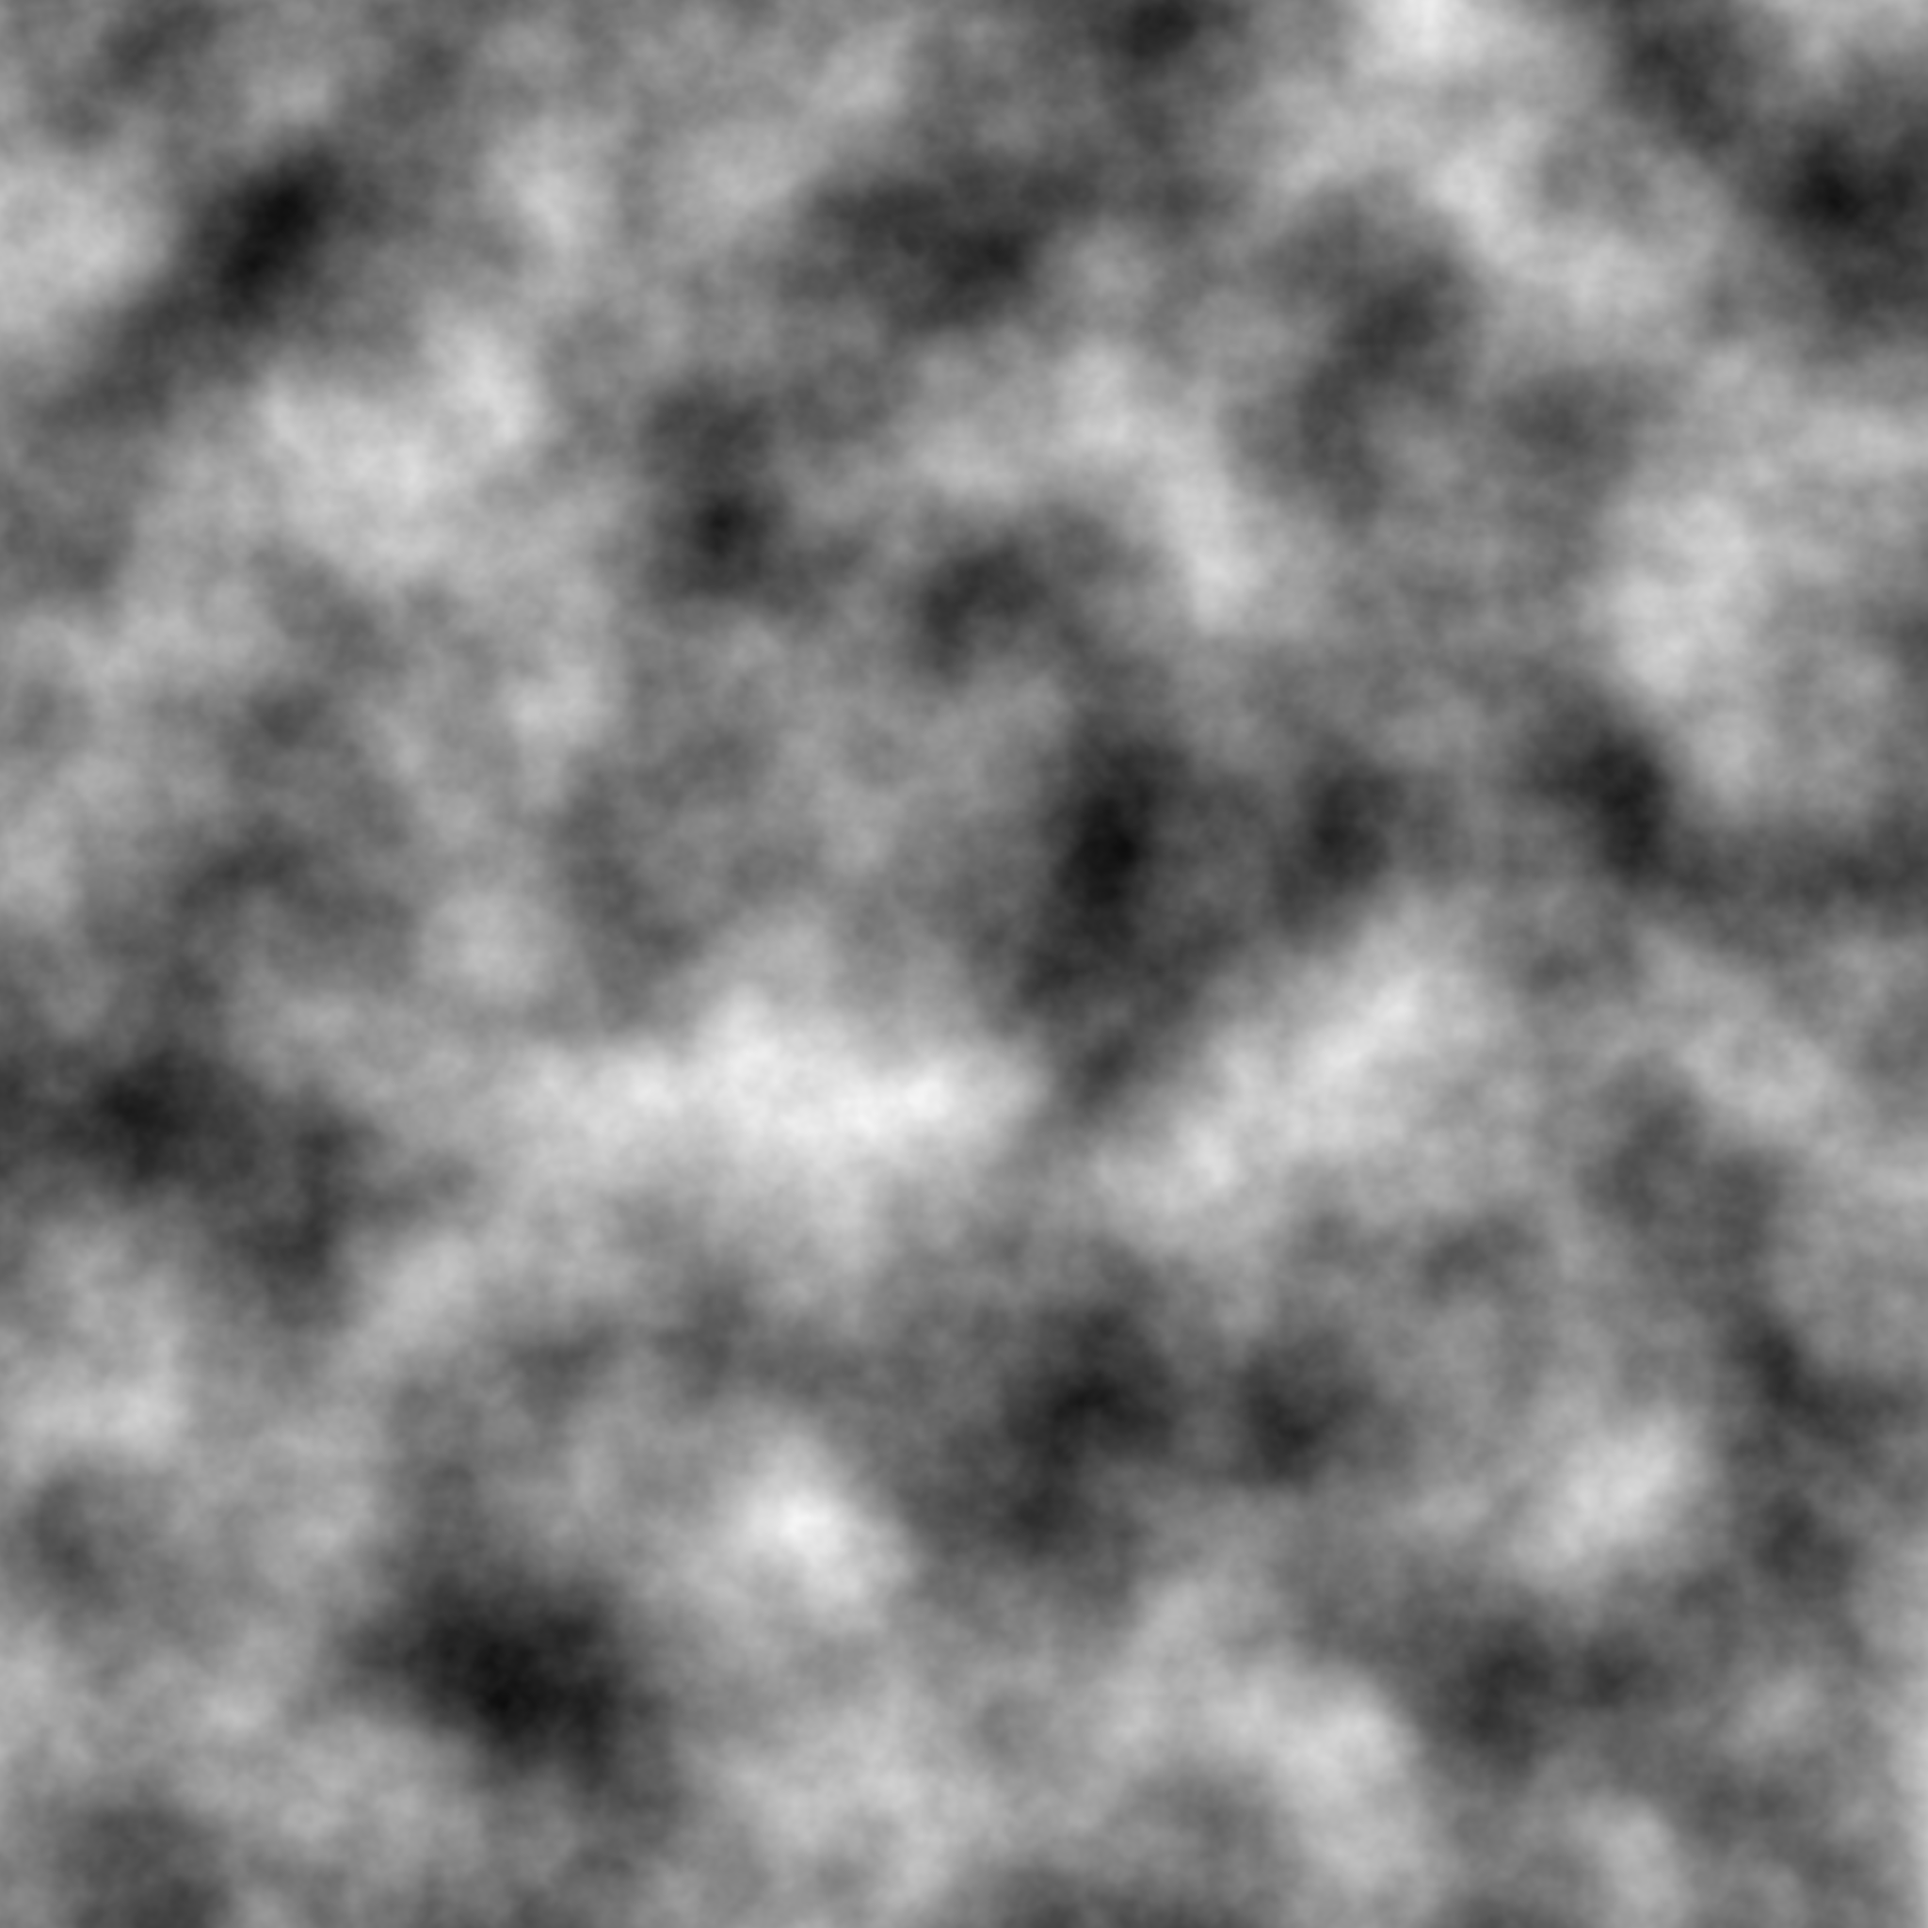
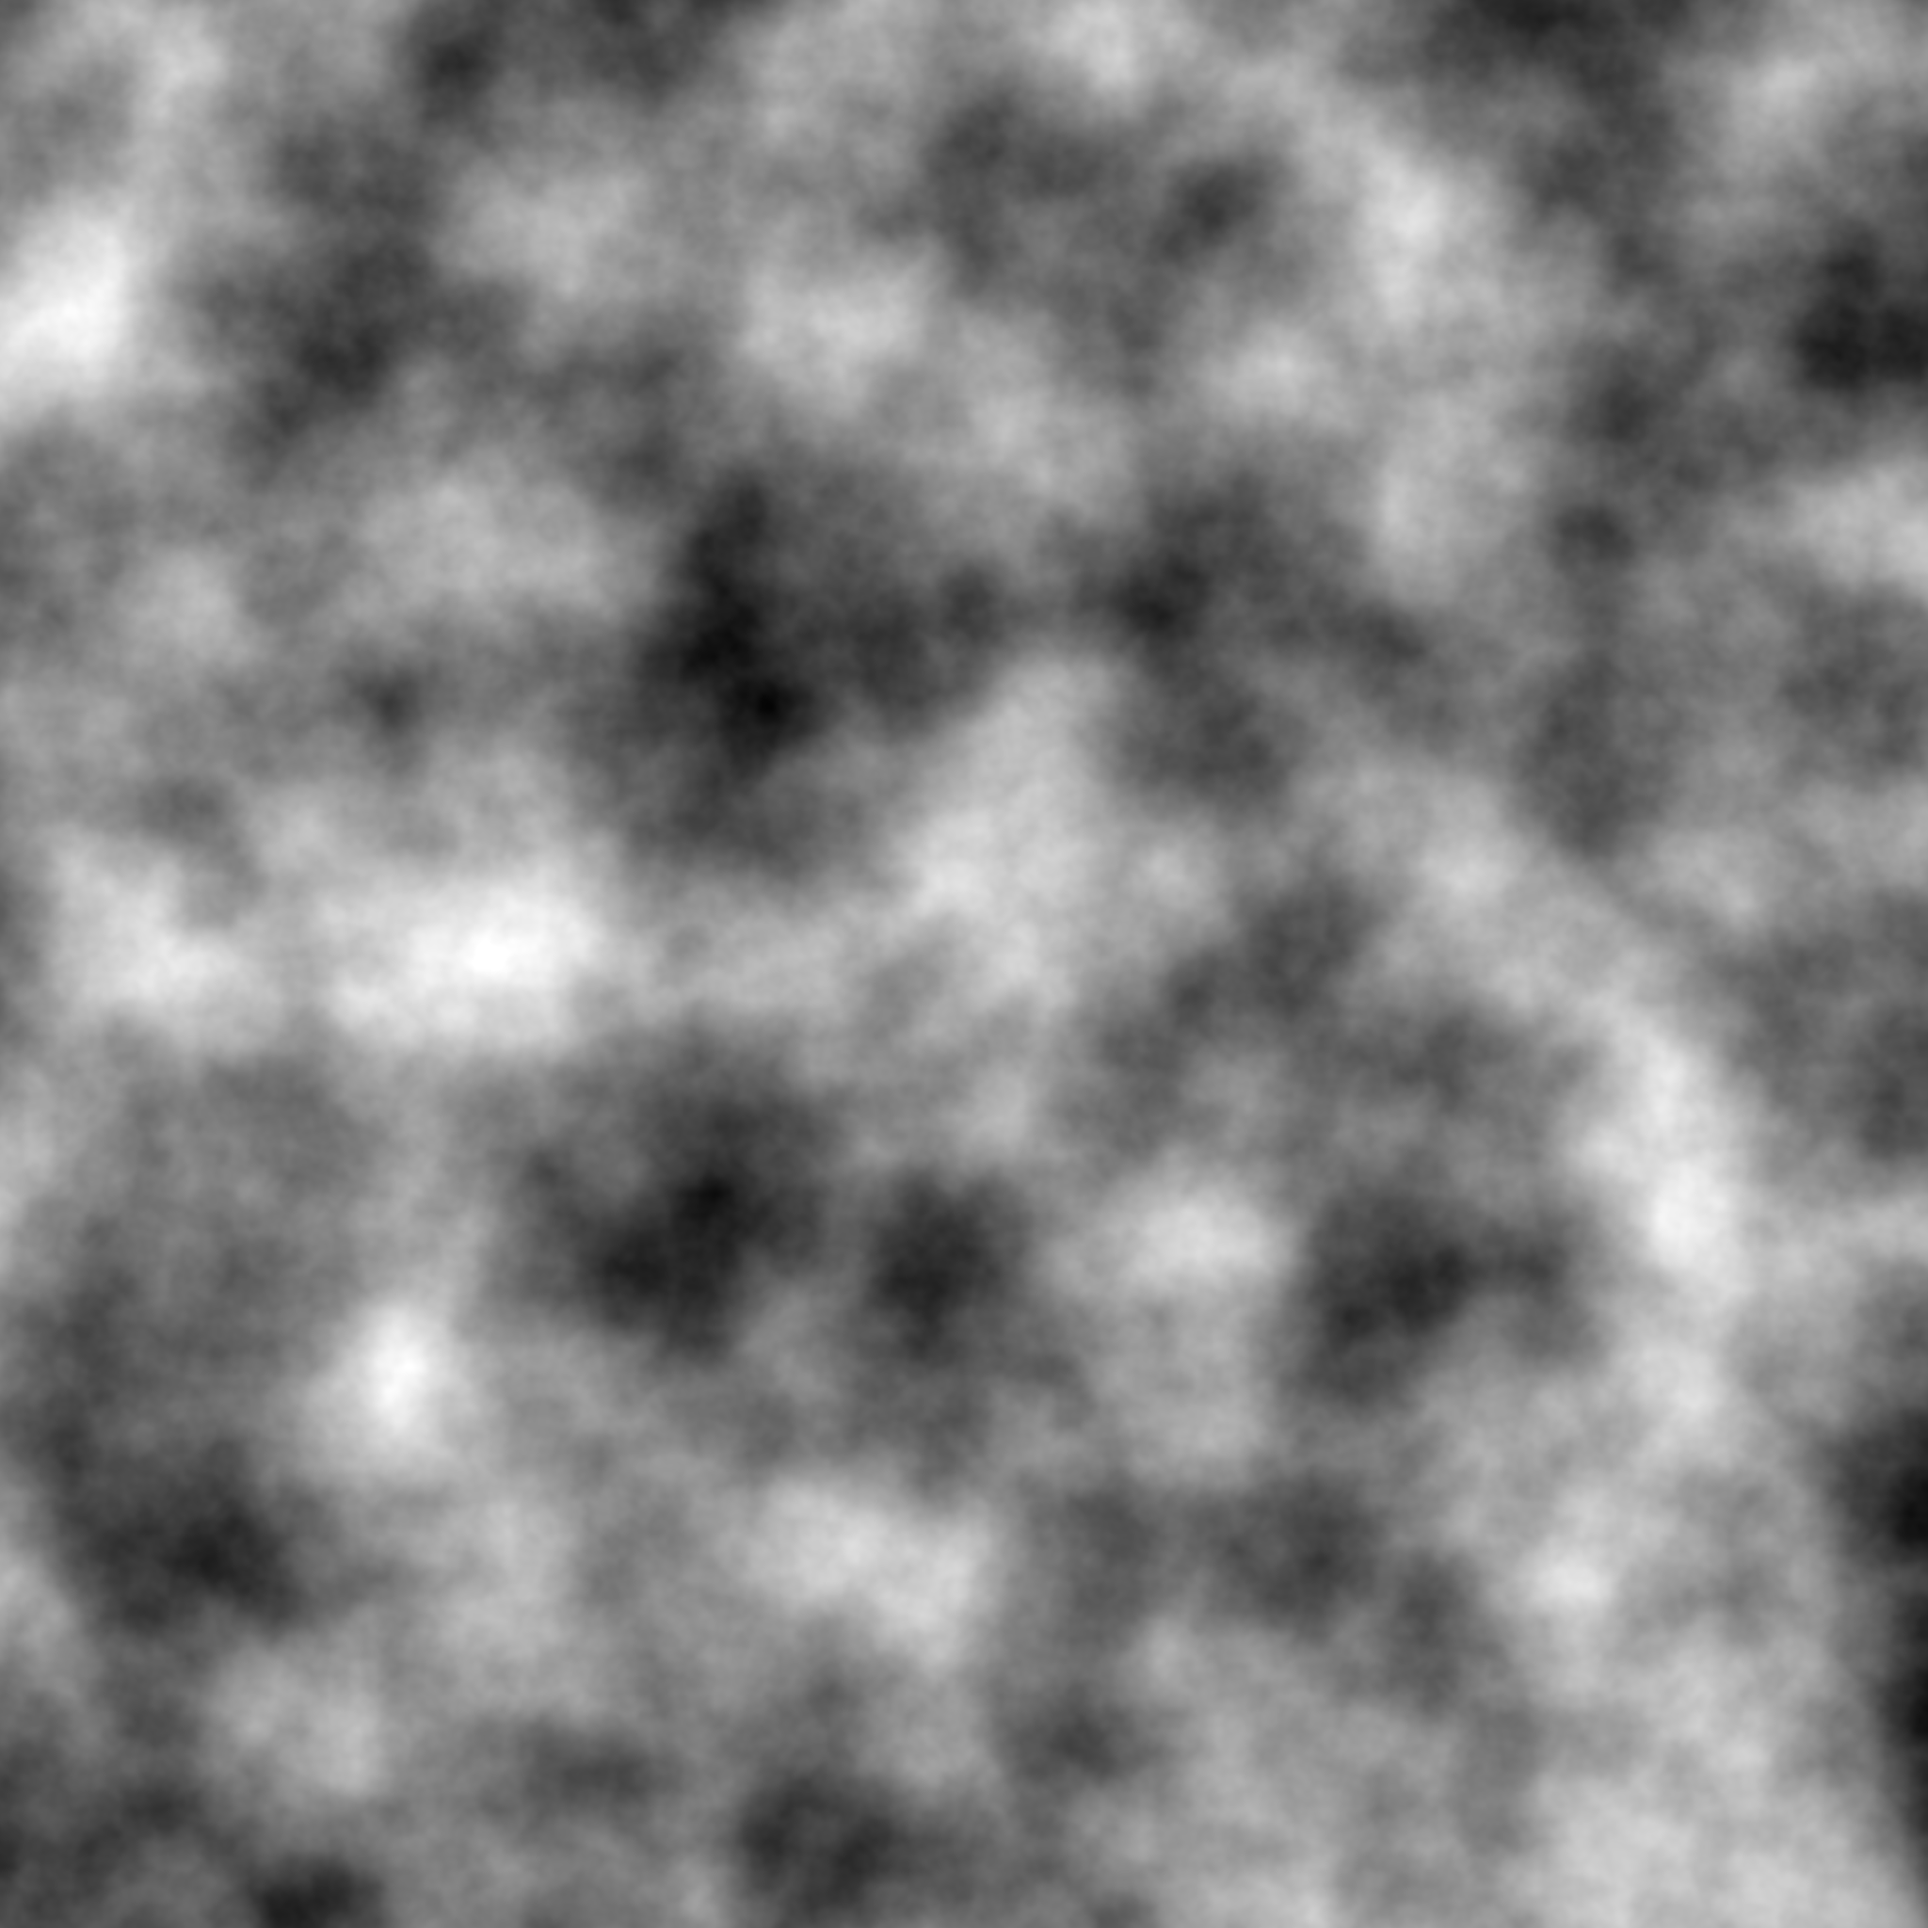
Corrected cells generation

diff --git a/src/main/java/lu/kbra/gamebox/client/es/game/game/world/World.java b/src/main/java/lu/kbra/gamebox/client/es/game/game/world/World.java
@@ -95,32 +95,47 @@ public class World implements Cleanupable {
 		this.fertilityGen = new NoiseGenerator(seed + SEED_OFFSET_FERTILITY, 32);
 		this.humidityGen = new NoiseGenerator(seed + SEED_OFFSET_HUMIDITY, 64);
 
-		GlobalUtils.pushWorker(
-				() -> NoiseMain.map(distributionGen, "distribution", -5 * 20, +5 * 20),
-				() -> NoiseMain.map(hostilityGen, "hostility", -5 * 20, +5 * 20),
-				() -> NoiseMain.map(fertilityGen, "fertility", -5 * 20, +5 * 20),
+		GlobalUtils.pushWorker(() -> NoiseMain.map(distributionGen, "distribution", -5 * 20, +5 * 20), () -> NoiseMain.map(hostilityGen, "hostility", -5 * 20, +5 * 20), () -> NoiseMain.map(fertilityGen, "fertility", -5 * 20, +5 * 20),
 				() -> NoiseMain.map(humidityGen, "humidity", -5 * 20, +5 * 20),
 
 				() -> NoiseMain.map((point) -> humidityGen.noise(point) > 0.2 && hostilityGen.noise(point) < 0.4, "plants_normal", -5 * 20, +5 * 20),
-				
+
 				() -> NoiseMain.map((point) -> humidityGen.noise(point) < 0.2, "humidity_less_0.2", -5 * 20, +5 * 20),
 				() -> NoiseMain.map((point) -> humidityGen.noise(point) < 0.4, "humidity_less_0.4", -5 * 20, +5 * 20),
 				() -> NoiseMain.map((point) -> humidityGen.noise(point) < 0.6, "humidity_less_0.6", -5 * 20, +5 * 20),
 				() -> NoiseMain.map((point) -> humidityGen.noise(point) < 0.8, "humidity_less_0.8", -5 * 20, +5 * 20),
 				
-				() -> NoiseMain.map((point) -> hostilityGen.noise(point) > 0.8, "hostility_greater_0.5", -5 * 20, +5 * 20),
+				() -> NoiseMain.map((point) -> humidityGen.noise(point) > 0.2, "humidity_greater_0.2", -5 * 20, +5 * 20),
+				() -> NoiseMain.map((point) -> humidityGen.noise(point) > 0.4, "humidity_greater_0.4", -5 * 20, +5 * 20),
+				() -> NoiseMain.map((point) -> humidityGen.noise(point) > 0.6, "humidity_greater_0.6", -5 * 20, +5 * 20),
+				() -> NoiseMain.map((point) -> humidityGen.noise(point) > 0.8, "humidity_greater_0.8", -5 * 20, +5 * 20),
+				
+				() -> NoiseMain.map((point) -> fertilityGen.noise(point) < 0.2, "fertility_less_0.2", -5 * 20, +5 * 20),
+				() -> NoiseMain.map((point) -> fertilityGen.noise(point) < 0.4, "fertility_less_0.4", -5 * 20, +5 * 20),
+				() -> NoiseMain.map((point) -> fertilityGen.noise(point) < 0.6, "fertility_less_0.6", -5 * 20, +5 * 20),
+				() -> NoiseMain.map((point) -> fertilityGen.noise(point) < 0.8, "fertility_less_0.8", -5 * 20, +5 * 20),
+
+				() -> NoiseMain.map((point) -> hostilityGen.noise(point) > 0.5, "hostility_greater_0.5", -5 * 20, +5 * 20),
 				() -> NoiseMain.map((point) -> hostilityGen.noise(point) > 0.8, "hostility_greater_0.8", -5 * 20, +5 * 20),
 				
+				() -> NoiseMain.map((point) -> hostilityGen.noise(point) < 0.4, "hostility_less_0.4", -5 * 20, +5 * 20),
+				() -> NoiseMain.map((point) -> hostilityGen.noise(point) < 0.2, "hostility_less_0.2", -5 * 20, +5 * 20),
+
 				() -> NoiseMain.map((point) -> humidityGen.noise(point) < 0.4 && hostilityGen.noise(point) > 0.5, "toxins_normal", -5 * 20, +5 * 20),
 				() -> NoiseMain.map((point) -> humidityGen.noise(point) < 0.4 && java.lang.Math.pow(hostilityGen.noise(point), 2) > 0.5, "toxins_squared", -5 * 20, +5 * 20),
-				() -> NoiseMain.map((point) -> humidityGen.noise(point) < 0.4 && hostilityGen.noise(point)*2 > 0.5, "toxins_doubled", -5 * 20, +5 * 20),
-				() -> NoiseMain.map((point) -> humidityGen.noise(point) < 0.4 && hostilityGen.noise(point)/2 > 0.5, "toxins_halved", -5 * 20, +5 * 20)
+				() -> NoiseMain.map((point) -> humidityGen.noise(point) < 0.4 && hostilityGen.noise(point) * 2 > 0.5, "toxins_doubled", -5 * 20, +5 * 20),
+				() -> NoiseMain.map((point) -> humidityGen.noise(point) < 0.4 && hostilityGen.noise(point) / 2 > 0.5, "toxins_halved", -5 * 20, +5 * 20),
+
+				() -> NoiseMain.map((point) -> fertilityGen.noise(point) > 0.8 && hostilityGen.noise(point) < 0.2 && humidityGen.noise(point) > 0.4, "cells_normal", -5 * 20, +5 * 20),
+				() -> NoiseMain.map((point) -> fertilityGen.noise(point) > 0.8 && hostilityGen.noise(point) < 0.4 && humidityGen.noise(point) > 0.4, "cells_soft_hostility", -5 * 20, +5 * 20),
+				() -> NoiseMain.map((point) -> fertilityGen.noise(point) > 0.6 && hostilityGen.noise(point) < 0.4 && humidityGen.noise(point) > 0.4, "cells_soft_hostility_soft_fertility", -5 * 20, +5 * 20)
 		);
 
 		CellMaterial playerMaterial = cache.loadOrGetMaterial("playerMaterial", CellShader.CellMaterial.class, CellType.PLAYER.name(),
 				cache.loadOrGetSingleTexture(CellShader.CellMaterial.PLAYER_TEXTURE_NAME, CellShader.CellMaterial.PLAYER_TEXTURE_PATH));
-		Mesh playerMesh = cache.newQuadMesh("playerMesh", playerMaterial, new Vector2f(1));
+		Mesh playerMesh = cache.newQuadMesh("playerMesh", playerMaterial, new Vector2f(2.5f * 2));
 		this.player = new CellEntity("player", cache, playerMesh, new CellDescriptor("player", CellType.PLAYER, "noname", null, null, null, 1));
+		scene.addEntity(player);
 
 		cellDescriptorPool = loadCellDescriptorPool();
 	}
@@ -161,8 +176,8 @@ public class World implements Cleanupable {
 		List<Entity> toxins = genToxins(center, halfSquareSize, numPoint / 3);
 		toxins.forEach(scene::addEntity);
 
-		List<Entity> cells = genCells(center, halfSquareSize, numPoint / 3);
-		// cells.forEach(scene::addEntity);
+		List<Entity> cells = genCells(center, halfSquareSize, numPoint / 10);
+		cells.forEach(scene::addEntity);
 
 		entities.addAll(plants);
 		entities.addAll(toxins);
@@ -194,14 +209,6 @@ public class World implements Cleanupable {
 			CellInstanceEmitter emit = new CellInstanceEmitter(desc.getId() + "-part-" + center, poss.size(), desc.loadOrGetMaterial(cache), new Transform3D());
 			cache.addMesh(emit.getParticleMesh());
 			cache.addInstanceEmitter(emit);
-
-			/*
-			 * try { Files.write(Paths.get("./resources/bakes/noise/sizes.txt"),
-			 * poss.parallelStream().map(t -> Math.clamp(0.6f, 1.2f, (float) ((1 -
-			 * hostilityGen.noise(t)*0.2f) + fertilityGen.noise(t) * 0.3f +
-			 * humidityGen.noise(t)))+"").collect(Collectors.joining("\n")).getBytes()); }
-			 * catch (IOException e1) { e1.printStackTrace(); }
-			 */
 
 			Matrix4f[] matrices = poss.stream().map(t -> new Matrix4f().setTranslation(t.x, t.y, 0).scale(Math.clamp(0.6f, 1.2f, (float) ((1 - hostilityGen.noise(t)) + fertilityGen.noise(t) * 0.3f + humidityGen.noise(t)))))
 					.collect(Collectors.toList()).toArray(new Matrix4f[poss.size()]);
@@ -256,7 +263,7 @@ public class World implements Cleanupable {
 		cache.addInstanceEmitter(emit);
 
 		Matrix4f[] matrices = plants.parallelStream().map(t -> new Matrix4f().setTranslation(t.x, t.y, 0)).collect(Collectors.toList()).toArray(new Matrix4f[plants.size()]);
-		Object[] sizes = plants.stream().map(p -> Math.clamp(0.6f, 1f, (float) humidityGen.noise(p) / 10 * 4 + 0.6f)).collect(Collectors.toList()).toArray();
+		Object[] sizes = plants.stream().map(p -> Math.clamp(0.6f, 2f, (float) humidityGen.noise(p) * 5)).collect(Collectors.toList()).toArray();
 
 		for (int i = 0; i < matrices.length; i++) {
 			matrices[i].translate(0, 0, 0.01f * i);
@@ -294,16 +301,18 @@ public class World implements Cleanupable {
 				rePoints.add(point);
 			}
 		}
+		GlobalLogger.info("Toxin growth ratio: " + ((double) rePoints.size() / points.size() * 100) + "%");
 		return rePoints;
 	}
 
 	public List<Vector2f> genCells(Vector2f center, List<Vector2f> points) {
 		List<Vector2f> rePoints = new ArrayList<Vector2f>();
 		for (Vector2f point : points) {
-			if (fertilityGen.noise(point, center) > 0.4 && hostilityGen.noise(point, center) > 0.2 && humidityGen.noise(point, center) > 0.3 && random.nextFloat() > 0.6f) {
+			if (fertilityGen.noise(point, center) > 0.6 && hostilityGen.noise(point, center) < 0.4 && humidityGen.noise(point, center) > 0.4 && random.nextFloat() > 0.2f) {
 				rePoints.add(point);
 			}
 		}
+		GlobalLogger.info("Cell growth ratio: " + ((double) rePoints.size() / points.size() * 100) + "%");
 		return rePoints;
 	}
 
@@ -317,8 +326,10 @@ public class World implements Cleanupable {
 		float maxY = +halfSquareSize;
 
 		for (int i = 0; i < numPoints; i++) {
-			// float randomX = minX + (float) distributionGen.noise(i * GEN_FACTOR + seed.x, i * GEN_FACTOR + seed.y) * (maxX - minX);
-			// float randomY = minY + (float) distributionGen.noise(i * GEN_FACTOR * 2 + seed.x, i * GEN_FACTOR / 3 + seed.y) * (maxY - minY);
+			// float randomX = minX + (float) distributionGen.noise(i * GEN_FACTOR + seed.x,
+			// i * GEN_FACTOR + seed.y) * (maxX - minX);
+			// float randomY = minY + (float) distributionGen.noise(i * GEN_FACTOR * 2 +
+			// seed.x, i * GEN_FACTOR / 3 + seed.y) * (maxY - minY);
 
 			float randomX = minX + random.nextFloat() * (maxX - minX);
 			float randomY = minY + random.nextFloat() * (maxY - minY);
